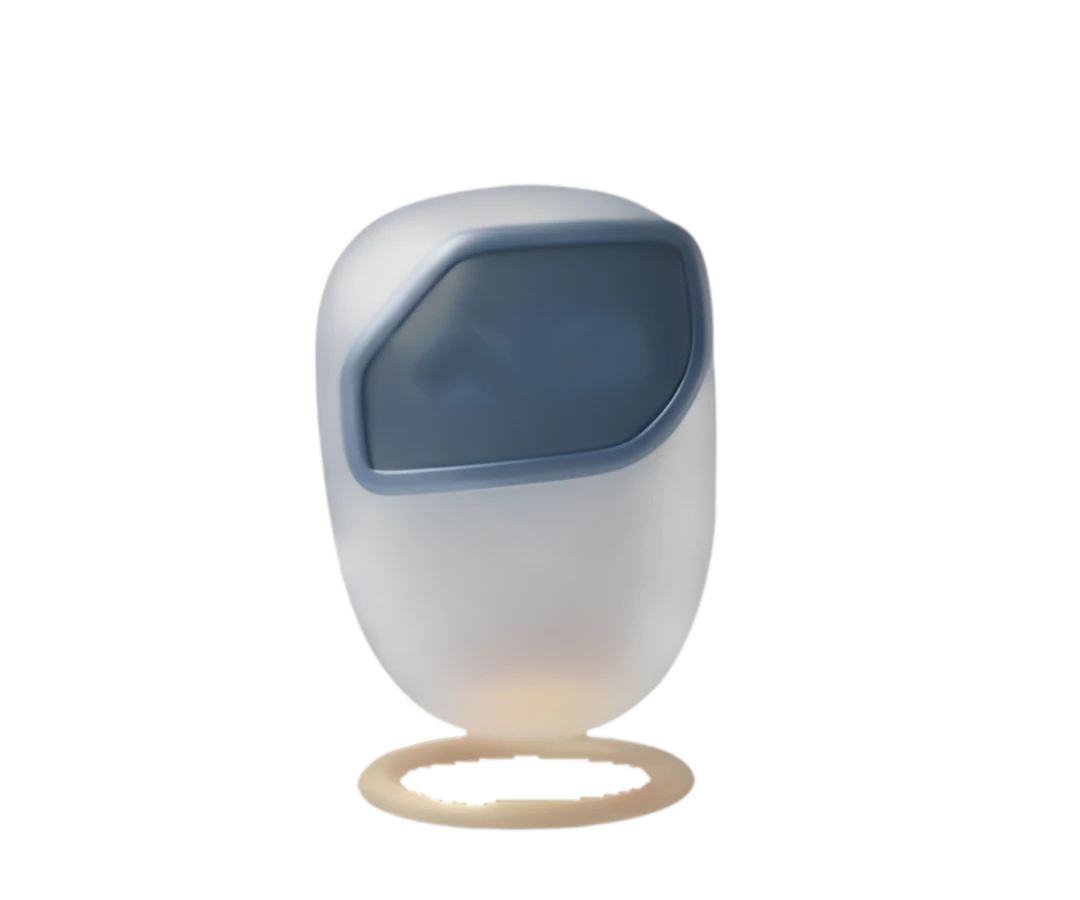
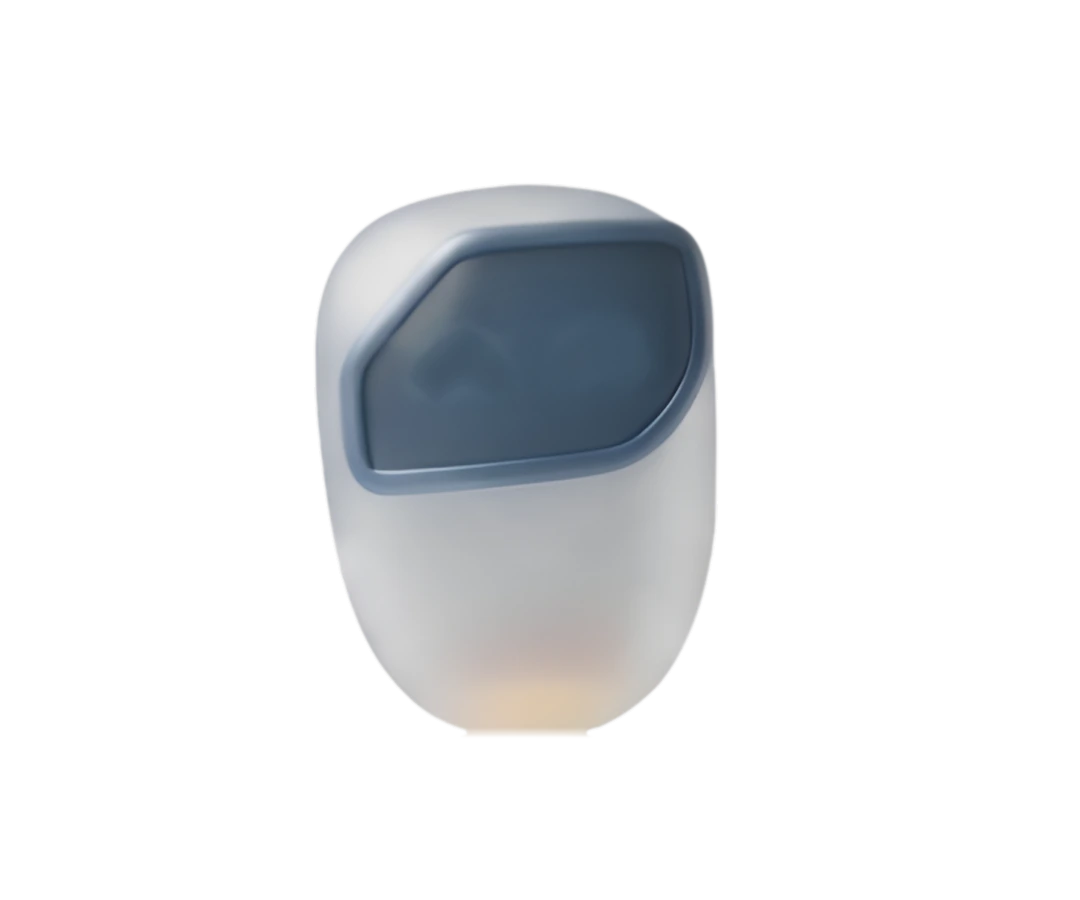
Mascot polish (drawn light ring, glowing eyes) and a cinematic landing pass
Ring is drawn in SVG (smooth at any size, breathes, brighter while working). Eyes get a hot
core and light the visor. Landing: he floats down a beam of light onto his ring, the headline
comes into focus word by word, slow aurora and pointer-depth stars, he is beside each story
step doing that step, and a dark closing scene where he waves you in.

Claude-Session: https://claude.ai/code/session_01R6Po7tKCx53ThHZd35o2UT

Changed region(s): [[0.3361, 0.8089, 0.6417, 0.9333]]

diff --git a/frontend/src/components/marketing/MascotHero.jsx b/frontend/src/components/marketing/MascotHero.jsx
@@ -3,7 +3,7 @@
 // the words continuously with the page (no steps, no size jumps). The four-step story lives in its own calm section
 // further down (Story), where each step simply fades in as it reaches you. Reduced motion keeps everything, still.
 import { useEffect, useRef, useState } from "react";
-import { animate, motion, useInView, useMotionValue, useScroll, useTransform } from "framer-motion";
+import { animate, motion, useInView, useMotionValue, useReducedMotion, useScroll, useSpring, useTransform } from "framer-motion";
 import { Link } from "react-router-dom";
 import { ArrowDown, ArrowRight, Phone } from "lucide-react";
 import { Mascot } from "../Mascot";
@@ -16,13 +16,13 @@ const CYAN = "#5EE6F0", MARIGOLD = "#F2A33A";
 // Example business and lead (fictional). The Telugu lines are the same Claude translation as ReplyScene: needs a
 // native speaker's check before launch.
 const STEPS = [
-  { key: "page", label: "01 · Your page", title: "One sentence in. A page that brings people in.",
+  { key: "page", mood: "busy", label: "01 · Your page", title: "One sentence in. A page that brings people in.",
     text: "Smile Studio Dental typed “free check-up this Saturday”. The page and its form were live a minute later." },
-  { key: "reply", label: "02 · The reply", title: "Lakshmi asks in Telugu. The answer comes back in Telugu.",
+  { key: "reply", mood: "happy", label: "02 · The reply", title: "Lakshmi asks in Telugu. The answer comes back in Telugu.",
     text: "Within seconds, on WhatsApp, while the dentist is with a patient." },
-  { key: "call", label: "03 · The call back", title: "Then it calls her back.",
+  { key: "call", mood: "hello", label: "03 · The call back", title: "Then it calls her back.",
     text: "It asks your questions, offers your free slots, and hands the warm ones to you." },
-  { key: "sale", label: "04 · The sale", title: "You just close.",
+  { key: "sale", mood: "cheer", label: "04 · The sale", title: "You just close.",
     text: "Lakshmi came in on Saturday. ₹4,500, traced back to the ad that found her." },
 ];
 
@@ -122,29 +122,57 @@ export default function MascotHero({ user }) {
   // He waves hello once, then settles and watches (same body, same size: only the arm and the eyes change).
   const [waved, setWaved] = useState(false);
   const size = useHeroSize();
-  useEffect(() => { const t = setTimeout(() => setWaved(true), 2600); return () => clearTimeout(t); }, []);
+  useEffect(() => { const t = setTimeout(() => setWaved(true), 3600); return () => clearTimeout(t); }, []);
+  // The sky leans a little toward your pointer: far stars move less than near ones (depth, not decoration).
+  const reduce = useReducedMotion();
+  const px = useSpring(0, { stiffness: 60, damping: 20 }), py = useSpring(0, { stiffness: 60, damping: 20 });
+  const far = { x: useTransform(px, (v) => v * 10), y: useTransform(py, (v) => v * 8) };
+  const near = { x: useTransform(px, (v) => v * 26), y: useTransform(py, (v) => v * 20) };
+  const onMove = (e) => {
+    if (reduce) return;
+    const r = e.currentTarget.getBoundingClientRect();
+    px.set((e.clientX - r.left) / r.width - 0.5); py.set((e.clientY - r.top) / r.height - 0.5);
+  };
+  const HEAD = ["From", "ad", "to", "sale,"], TAIL = ["in", "one", "calm", "place."];
+  const word = (w, i, base) => (
+    <motion.span key={w + i} className="inline-block" initial={{ opacity: 0, y: 26, filter: "blur(10px)" }} animate={{ opacity: 1, y: 0, filter: "blur(0px)" }}
+      transition={{ duration: 0.8, ease, delay: base + i * 0.07 }}>{w}&nbsp;</motion.span>
+  );
 
   return (
-    <section ref={ref} aria-label="AIMVA" className="relative overflow-hidden bg-[#0b1b20] text-white">
-      <motion.div aria-hidden style={{ y: glowY }} className="pointer-events-none absolute left-1/2 top-[40%] size-[820px] -translate-x-1/2 -translate-y-1/2 rounded-full opacity-25 blur-3xl lg:left-[70%]">
-        <div className="size-full rounded-full" style={{ background: `radial-gradient(circle, ${CYAN} 0%, transparent 62%)` }} />
+    <section ref={ref} aria-label="AIMVA" onPointerMove={onMove} className="relative overflow-hidden bg-[#0b1b20] text-white">
+      {/* Slow aurora: two soft lights drifting behind everything */}
+      <motion.div aria-hidden style={{ y: glowY }} className="pointer-events-none absolute inset-0">
+        <motion.div className="absolute left-[55%] top-[10%] size-[760px] rounded-full opacity-25 blur-3xl"
+          style={{ background: `radial-gradient(circle, ${CYAN} 0%, transparent 62%)` }}
+          animate={{ x: [0, -60, 30, 0], y: [0, 40, -20, 0] }} transition={{ duration: 22, repeat: Infinity, ease: "easeInOut" }} />
+        <motion.div className="absolute left-[5%] top-[45%] size-[620px] rounded-full opacity-[0.12] blur-3xl"
+          style={{ background: `radial-gradient(circle, ${MARIGOLD} 0%, transparent 60%)` }}
+          animate={{ x: [0, 80, -20, 0], y: [0, -30, 20, 0] }} transition={{ duration: 28, repeat: Infinity, ease: "easeInOut" }} />
       </motion.div>
-      {STARS.map((st, i) => (
-        <span key={i} aria-hidden className="mk-star pointer-events-none absolute rounded-full bg-white"
-          style={{ left: `${st.x}%`, top: `${st.y}%`, width: st.s, height: st.s, animationDelay: `${st.d}s` }} />
-      ))}
+      <motion.div aria-hidden style={far} className="pointer-events-none absolute inset-0">
+        {STARS.filter((_, i) => i % 2).map((st, i) => (
+          <span key={i} className="mk-star absolute rounded-full bg-white" style={{ left: `${st.x}%`, top: `${st.y}%`, width: st.s, height: st.s, animationDelay: `${st.d}s` }} />
+        ))}
+      </motion.div>
+      <motion.div aria-hidden style={near} className="pointer-events-none absolute inset-0">
+        {STARS.filter((_, i) => !(i % 2)).map((st, i) => (
+          <span key={i} className="mk-star absolute rounded-full bg-white" style={{ left: `${(st.x * 1.7) % 100}%`, top: `${(st.y * 1.3) % 100}%`, width: st.s + 1, height: st.s + 1, animationDelay: `${st.d + 1}s` }} />
+        ))}
+      </motion.div>
 
       <div className="relative mx-auto grid min-h-[calc(100svh-3.5rem)] max-w-6xl content-center items-center gap-4 px-4 pb-10 pt-6 sm:min-h-[calc(100svh-4rem)] sm:px-6 lg:grid-cols-[1.1fr_0.9fr] lg:gap-10 lg:py-0">
         <motion.div style={words} className="relative z-10 order-2 lg:order-1">
-          <motion.h1 initial={{ opacity: 0, y: 16 }} animate={{ opacity: 1, y: 0 }} transition={{ duration: 0.7, ease, delay: 0.15 }}
-            className="serif-moment text-[36px] leading-[1.02] text-white sm:text-6xl xl:text-[76px]">
-            From ad to sale, <em className="text-[#F2A33A]">in one calm place.</em>
-          </motion.h1>
-          <motion.p initial={{ opacity: 0, y: 12 }} animate={{ opacity: 1, y: 0 }} transition={{ duration: 0.7, ease, delay: 0.3 }}
+          {/* The words come into focus one by one, after he has arrived */}
+          <h1 className="serif-moment text-[36px] leading-[1.02] text-white sm:text-6xl xl:text-[76px]" aria-label="From ad to sale, in one calm place.">
+            <span aria-hidden>{HEAD.map((w, i) => word(w, i, 0.9))}</span>
+            <em aria-hidden className="text-[#F2A33A]">{TAIL.map((w, i) => word(w, i, 1.25))}</em>
+          </h1>
+          <motion.p initial={{ opacity: 0, y: 12 }} animate={{ opacity: 1, y: 0 }} transition={{ duration: 0.7, ease, delay: 1.7 }}
             className="mt-4 max-w-xl text-[15px] leading-relaxed text-white/70 sm:mt-5 sm:text-lg">
             Tell AIMVA about your business in one sentence, in any language. It writes your page and ads, answers every lead in seconds and calls them back. You just close.
           </motion.p>
-          <motion.div initial={{ opacity: 0, y: 10 }} animate={{ opacity: 1, y: 0 }} transition={{ duration: 0.7, ease, delay: 0.45 }}
+          <motion.div initial={{ opacity: 0, y: 10 }} animate={{ opacity: 1, y: 0 }} transition={{ duration: 0.7, ease, delay: 1.9 }}
             className="mt-6 flex flex-col gap-2 sm:mt-8 sm:flex-row sm:gap-3">
             <Link to={user ? "/app" : signupHref("home")} className="inline-flex h-12 items-center justify-center gap-2 rounded-xl bg-[#5EE6F0] px-7 text-[15px] font-semibold text-[#0b1b20] transition-colors hover:bg-white">
               {user ? "Open app" : "Start free"} <ArrowRight className="size-4" />
@@ -153,14 +181,20 @@ export default function MascotHero({ user }) {
               See him work <ArrowDown className="size-4" />
             </a>
           </motion.div>
-          <p className="mt-5 hidden text-sm text-white/50 sm:block">Free while in early access · No card needed</p>
+          <motion.p initial={{ opacity: 0 }} animate={{ opacity: 1 }} transition={{ duration: 0.7, delay: 2.1 }} className="mt-5 hidden text-sm text-white/50 sm:block">Free while in early access · No card needed</motion.p>
         </motion.div>
 
         <motion.div style={him} className="relative order-1 flex justify-center lg:order-2">
-          <Mascot watch={waved} mood={waved ? "idle" : "hello"} size={size} arrive="pop" />
-          <span aria-hidden className="pointer-events-none absolute bottom-[2%] left-1/2 h-6 w-[30%] -translate-x-1/2 rounded-full opacity-30 blur-md" style={{ background: MARIGOLD }} />
+          {/* His entrance: a beam of light, and he floats down it onto his ring; the beam fades, he waves. */}
+          <motion.span aria-hidden className="pointer-events-none absolute -top-[60vh] bottom-[8%] left-1/2 w-[46%] -translate-x-1/2 blur-2xl"
+            style={{ background: `linear-gradient(to bottom, transparent, ${CYAN}55 55%, ${CYAN}88)`, transformOrigin: "50% 100%" }}
+            initial={{ opacity: 0, scaleX: 0.3 }} animate={{ opacity: [0, 0.9, 0], scaleX: [0.3, 1, 1.2] }} transition={{ duration: 2.4, times: [0, 0.35, 1], ease: "easeInOut" }} />
+          <motion.div initial={{ y: -180, opacity: 0, scale: 0.85 }} animate={{ y: 0, opacity: 1, scale: 1 }} transition={{ delay: 0.25, type: "spring", stiffness: 55, damping: 14 }}>
+            <Mascot watch={waved} mood={waved ? "idle" : "hello"} size={size} />
+          </motion.div>
         </motion.div>
       </div>
+      <div aria-hidden className="pointer-events-none absolute inset-x-0 bottom-0 h-24 bg-gradient-to-b from-transparent to-[#0b1b20]" />
     </section>
   );
 }
@@ -180,8 +214,12 @@ function Step({ step, i }) {
       </motion.div>
       <div className={cx("flex min-h-[220px] items-center justify-center", i % 2 ? "md:order-1 md:justify-start" : "md:justify-end")}>
         {seen && (
-          <motion.div initial={{ opacity: 0, y: 24 }} animate={{ opacity: 1, y: 0 }} transition={{ duration: 0.7, ease, delay: 0.1 }}>
+          <motion.div initial={{ opacity: 0, y: 24 }} animate={{ opacity: 1, y: 0 }} transition={{ duration: 0.7, ease, delay: 0.1 }} className="relative">
             <Card />
+            {/* He is there for each step, doing that step */}
+            <span className={cx("absolute -top-20 hidden sm:block", i % 2 ? "-right-20" : "-left-24")}>
+              <Mascot mood={step.mood} size={78} arrive="hop" />
+            </span>
           </motion.div>
         )}
       </div>
@@ -202,7 +240,7 @@ export function Story({ user }) {
           {STEPS.map((s, i) => <Step key={s.key} step={s} i={i} />)}
         </ol>
         <div ref={end} className="mt-6 flex flex-wrap items-center gap-5 border-t border-white/10 pt-10">
-          {atEnd && <Mascot mood="cheer" size={96} arrive="hop" />}
+          {atEnd && <Mascot mood="wink" size={90} arrive="hop" />}
           <div>
             <p className="text-lg font-semibold text-white">Your first lead could be this week.</p>
             <Link to={user ? "/app" : signupHref("home")} className="mt-3 inline-flex h-11 items-center gap-2 rounded-xl bg-[#5EE6F0] px-6 text-[15px] font-semibold text-[#0b1b20] transition-colors hover:bg-white">
@@ -210,6 +248,35 @@ export function Story({ user }) {
             </Link>
           </div>
         </div>
+      </div>
+    </section>
+  );
+}
+
+/** The closing scene on the landing page: back to the night sky, he waves you in. */
+export function Finale({ user }) {
+  const ref = useRef(null);
+  const seen = useInView(ref, { once: true, margin: "-20% 0px" });
+  const [settled, setSettled] = useState(false);
+  useEffect(() => { if (!seen) return undefined; const t = setTimeout(() => setSettled(true), 2600); return () => clearTimeout(t); }, [seen]);
+  return (
+    <section ref={ref} aria-labelledby="finale-h" className="relative overflow-hidden bg-[#0b1b20] text-white">
+      <div aria-hidden className="pointer-events-none absolute left-1/2 top-1/2 size-[700px] -translate-x-1/2 -translate-y-1/2 rounded-full opacity-25 blur-3xl"
+        style={{ background: `radial-gradient(circle, ${CYAN} 0%, transparent 62%)` }} />
+      {STARS.slice(0, 16).map((st, i) => (
+        <span key={i} aria-hidden className="mk-star pointer-events-none absolute rounded-full bg-white" style={{ left: `${st.x}%`, top: `${st.y}%`, width: st.s, height: st.s, animationDelay: `${st.d}s` }} />
+      ))}
+      <div className="relative mx-auto flex max-w-3xl flex-col items-center px-4 py-16 text-center sm:px-6 sm:py-24">
+        <div className="h-[190px]">{seen && <Mascot mood={settled ? "happy" : "hello"} size={150} arrive="pop" watch={settled} />}</div>
+        <h2 id="finale-h" className="serif-moment mt-4 text-[32px] leading-tight text-white sm:text-5xl">Your next lead could be in today.</h2>
+        <p className="mx-auto mt-4 max-w-lg text-base text-white/70 sm:text-lg">Create a free account, tell him about your business in one sentence, and your first page is written for you.</p>
+        <div className="mt-8 flex flex-col items-center justify-center gap-3 sm:flex-row">
+          <Link to={user ? "/app" : signupHref("home")} className="inline-flex h-12 items-center justify-center gap-2 rounded-xl bg-[#5EE6F0] px-7 text-[15px] font-semibold text-[#0b1b20] transition-colors hover:bg-white">
+            {user ? "Open app" : "Start free"} <ArrowRight className="size-4" />
+          </Link>
+          <Link to="/tour" className="inline-flex h-12 items-center justify-center rounded-xl px-5 text-[15px] font-medium text-white/80 ring-1 ring-white/20 hover:text-white hover:ring-white/40">Take the product tour</Link>
+        </div>
+        <p className="mt-5 text-sm text-white/50">Free while in early access. No card needed.</p>
       </div>
     </section>
   );

diff --git a/frontend/src/components/Mascot.jsx b/frontend/src/components/Mascot.jsx
@@ -5,7 +5,7 @@
 // different drawing. Rules from the plan: calm by default, motion only to say something, still for reduced motion,
 // never cheeky about money, errors or customers waiting.
 import { AnimatePresence, MotionConfig, motion, useAnimationControls, useReducedMotion } from "framer-motion";
-import { useEffect, useRef, useState } from "react";
+import { useEffect, useId, useRef, useState } from "react";
 import cx from "clsx";
 
 // The drawing space (owner's art, upscaled 4x so he stays sharp up to about 600px wide). BOX is the part his body
@@ -115,17 +115,46 @@ function Face({ face, look = [0, 0], blink }) {
   const draw = FACES[face] || FACES.hello;
   return (
     <g style={{ filter: `drop-shadow(0 0 8px ${GLOW}aa)` }}>
+      {/* the eyes light up the visor glass around them */}
+      <ellipse cx={529} cy={358} rx={125} ry={62} fill={GLOW} opacity={0.1} style={{ filter: "blur(18px)" }} />
       {EYES.map(([x, y], i) => (
         <motion.g key={i} initial={false} animate={{ x: x + look[0] * LOOK, y: y + look[1] * LOOK }} transition={{ type: "spring", stiffness: 400, damping: 30 }}>
           <motion.g initial={false} animate={{ scaleX: EYE_SCALE, scaleY: blink ? 0.08 : EYE_SCALE }} transition={{ duration: 0.08 }}>
             <AnimatePresence mode="wait" initial={false}>
               <motion.g key={face} initial={{ scaleY: 0.1 }} animate={{ scaleY: 1 }} exit={{ scaleY: 0.1 }} transition={{ duration: 0.09 }}>
                 {draw(i === 0 ? -1 : 1)}
+                {/* a hotter core, so the eyes read as light, not paint */}
+                <g transform="scale(0.55) translate(-3 -4)" style={{ filter: "brightness(1.45) saturate(0.6)" }} opacity={0.9}>{draw(i === 0 ? -1 : 1)}</g>
               </motion.g>
             </AnimatePresence>
           </motion.g>
         </motion.g>
       ))}
+    </g>
+  );
+}
+
+/** His marigold light ring, drawn (not painted) so it stays smooth at any size. It breathes slowly, glows brighter
+ *  while he works, and flares when he cheers. */
+const MARIGOLD = "#F2A33A";
+function Ring({ busy, cheer }) {
+  const id = useId().replace(/:/g, "");
+  return (
+    <g aria-hidden>
+      <defs>
+        <linearGradient id={`rg${id}`} x1="0" y1="0" x2="0" y2="1">
+          <stop offset="0" stopColor="#FBE3BF" />
+          <stop offset="0.55" stopColor="#F3C083" />
+          <stop offset="1" stopColor="#D9934A" />
+        </linearGradient>
+        <filter id={`rb${id}`} x="-50%" y="-200%" width="200%" height="500%"><feGaussianBlur stdDeviation="18" /></filter>
+      </defs>
+      {/* light thrown on the floor below him */}
+      <motion.ellipse cx={526} cy={815} rx={175} ry={28} fill={MARIGOLD} filter={`url(#rb${id})`}
+        animate={{ opacity: cheer ? [0.35, 0.8, 0.35] : busy ? [0.3, 0.55, 0.3] : [0.18, 0.3, 0.18] }}
+        transition={{ duration: busy ? 1.2 : 3.6, repeat: Infinity, ease: "easeInOut" }} />
+      <ellipse cx={526} cy={782} rx={166} ry={39} fill="none" stroke={`url(#rg${id})`} strokeWidth={24} />
+      <ellipse cx={526} cy={778} rx={166} ry={38} fill="none" stroke="#FFF6E6" strokeOpacity={0.55} strokeWidth={4} />
     </g>
   );
 }
@@ -325,6 +354,7 @@ export function Mascot({ mood = "hello", size = 96, arrive = null, watch = false
             <span className="relative block" style={{ aspectRatio: `${BOX.w} / ${BOX.h}` }}>
               <svg viewBox={`0 0 ${W} ${H}`} className="absolute block overflow-visible"
                 style={{ left: `${(-BOX.x / BOX.w) * 100}%`, top: `${(-BOX.y / BOX.h) * 100}%`, width: `${(W / BOX.w) * 100}%` }}>
+                <Ring busy={shown === "busy"} cheer={shown === "cheer"} />
                 <image href="/mascot/body.webp" width={W} height={H} />
                 <Face face={face} look={typing === "secret" ? [0, 6] : shown === "busy" && !watch ? [-4, 12] : look} blink={blink} />
                 <AnimatePresence>{shown === "busy" && <Workbench key="bench" />}</AnimatePresence>

diff --git a/frontend/src/pages/Landing.jsx b/frontend/src/pages/Landing.jsx
@@ -4,10 +4,10 @@ import { useInView } from "framer-motion";
 import { MotionConfig, motion, useMotionValueEvent, useReducedMotion, useScroll, useSpring } from "framer-motion";
 import { Link } from "react-router-dom";
 import { ArrowRight, AudioLines, BarChart3, Check, ChevronDown, Globe, Image, Megaphone, MessageCircle, Users } from "lucide-react";
-import { FinalCta, Heading, MarketingLayout, cx, signupHref, useSeo } from "../components/marketing/Site";
+import { Heading, MarketingLayout, cx, signupHref, useSeo } from "../components/marketing/Site";
 import { USE_CASES } from "../components/marketing/useCases";
 import { useAuth } from "../lib/auth";
-import MascotHero, { Story } from "../components/marketing/MascotHero";
+import MascotHero, { Finale, Story } from "../components/marketing/MascotHero";
 import { Mascot } from "../components/Mascot";
 import ReplyScene from "../components/marketing/ReplyScene";
 
@@ -175,7 +175,7 @@ export default function Landing() {
           </div>
         </section>
 
-        <FinalCta from="home" />
+        <Finale user={user} />
       </MarketingLayout>
     </MotionConfig>
   );
